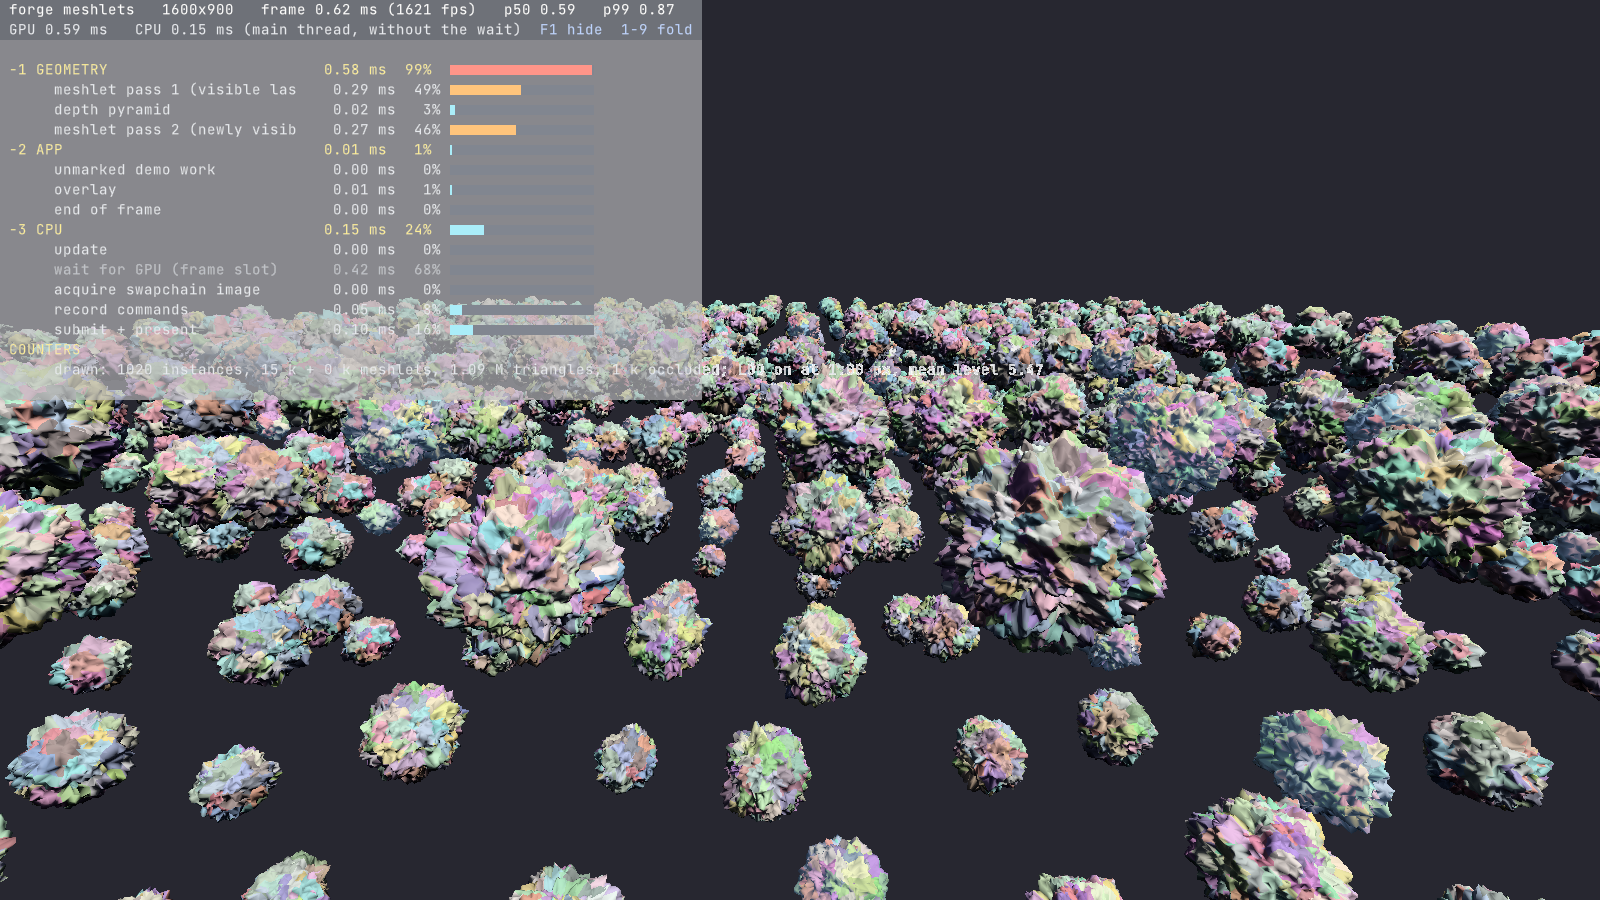
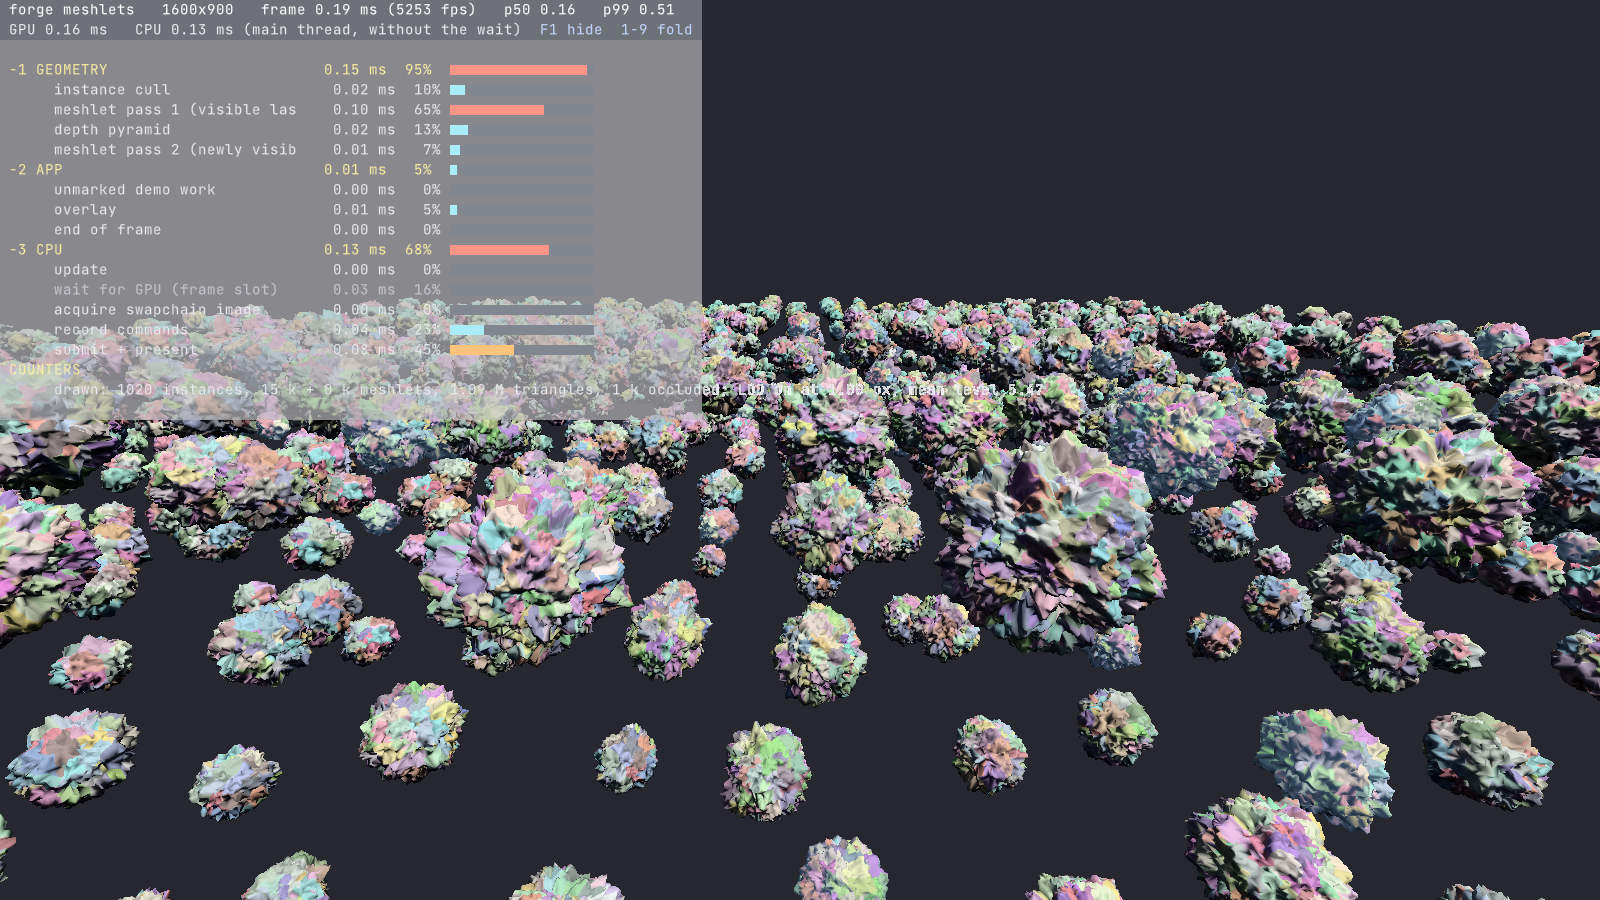
Instance cull pass: compute pre-pass builds the task work list, indirect mesh-task draws
One thread per instance frustum-culls it, evaluates the LOD level window per level and
appends only the task groups of the levels that can hold selected clusters to a per-frame
work list; the atomic counter is the x of the indirect VkDrawMeshTasksIndirectCommandEXT
that both meshlet passes now use. The launch-bound walk over 145 k groups per pass is gone:
ballad GPU 1.09 -> 0.34 ms (geometry passes 0.46 + 0.42 -> 0.06 + 0.02 ms, cull 0.02 ms),
bench 0.58 -> 0.15 ms. A/B harness at 0 pixels against the previous LOD image, brute
force and the window-off path; validation clean. PROFILE.md: the sky is now the largest
item of the frame.

Closes #4

diff --git a/crates/forge-render/src/meshlet.rs b/crates/forge-render/src/meshlet.rs
@@ -133,6 +133,8 @@ struct GpuFrame {
     group_table: u64,
     total_groups: u32,
     pad_end: u32,
+    work: u64,
+    indirect: u64,
 }
 
 #[repr(C)]
@@ -310,6 +312,26 @@ impl MeshletSceneBuilder {
                 usage,
                 "task group table",
             )?,
+            work: (0..FRAMES_IN_FLIGHT)
+                .map(|i| {
+                    device.create_buffer(BufferDesc {
+                        size: u64::from(self.group_table.len() as u32) * 8,
+                        usage,
+                        location: MemoryLocation::GpuOnly,
+                        name: &format!("task work list {i}"),
+                    })
+                })
+                .collect::<Result<Vec<_>>>()?,
+            indirect: (0..FRAMES_IN_FLIGHT)
+                .map(|i| {
+                    device.create_buffer(BufferDesc {
+                        size: 16,
+                        usage: usage | vk::BufferUsageFlags::INDIRECT_BUFFER,
+                        location: MemoryLocation::CpuToGpu,
+                        name: &format!("task indirect {i}"),
+                    })
+                })
+                .collect::<Result<Vec<_>>>()?,
             instance_count: self.instances.len() as u32,
             total_groups: self.group_table.len() as u32,
             total_bits: self.total_bits,
@@ -331,6 +353,10 @@ pub struct MeshletScene {
     instances: Buffer,
     visibility: Buffer,
     group_table: Buffer,
+    /// Per frame slot: the task-group work list built by the cull pass.
+    work: Vec<Buffer>,
+    /// Per frame slot: the indirect mesh-task command (x = work count).
+    indirect: Vec<Buffer>,
     /// Instances.
     pub instance_count: u32,
     /// Task groups per pass (every instance's clusters in groups of 32).
@@ -488,6 +514,7 @@ pub struct MeshletRenderer {
     pipeline_solid: Pipeline,
     pipeline_wire: Pipeline,
     pipeline_hzb: Pipeline,
+    pipeline_cull: Pipeline,
     depth: DepthResources,
     frame_buffers: Vec<Buffer>,
     stats_buffers: Vec<Buffer>,
@@ -545,6 +572,10 @@ impl MeshletRenderer {
             &shaders.compile("hzb.slang", "hzb_main", ShaderStage::Compute)?,
             "hzb",
         )?;
+        let cull = device.create_shader_module(
+            &shaders.compile("meshlet.slang", "cull_main", ShaderStage::Compute)?,
+            "instance cull",
+        )?;
         let make_pipeline = |wireframe: bool| {
             device.create_mesh_pipeline(&MeshPipelineDesc {
                 task: Some((task, "task_main")),
@@ -570,7 +601,12 @@ impl MeshletRenderer {
             push_constant_bytes: std::mem::size_of::<HzbPush>() as u32,
             name: "hzb build",
         })?;
-        for module in [task, mesh, frag, hzb] {
+        let pipeline_cull = device.create_compute_pipeline(&ComputePipelineDesc {
+            shader: (cull, "cull_main"),
+            push_constant_bytes: std::mem::size_of::<Push>() as u32,
+            name: "instance cull + LOD window",
+        })?;
+        for module in [task, mesh, frag, hzb, cull] {
             device.destroy_shader_module(module);
         }
         let depth = DepthResources::new(device, extent)?;
@@ -601,6 +637,7 @@ impl MeshletRenderer {
             pipeline_solid,
             pipeline_wire,
             pipeline_hzb,
+            pipeline_cull,
             depth,
             frame_buffers,
             stats_buffers,
@@ -674,6 +711,8 @@ impl MeshletRenderer {
             group_table: scene.group_table.address(),
             total_groups: scene.total_groups,
             pad_end: 0,
+            work: scene.work[slot.index].address(),
+            indirect: scene.indirect[slot.index].address(),
         }
     }
 
@@ -772,7 +811,6 @@ impl MeshletRenderer {
             &self.pipeline_solid
         };
         let frame_address = self.frame_buffers[slot.index].address();
-        let task_groups = params.scene.total_groups;
 
         // Visibility bits written by the previous frame must be visible to this frame's task shader.
         commands.memory_barrier(
@@ -781,6 +819,24 @@ impl MeshletRenderer {
             vk::PipelineStageFlags2::TASK_SHADER_EXT,
             vk::AccessFlags2::SHADER_STORAGE_READ,
         );
+        // Instance culling and LOD level windows in compute: the task-group work list and the
+        // indirect command of both passes (x = group count, reset here every frame).
+        params.scene.indirect[slot.index].write(0, &[0_u32, 1, 1, 0]);
+        commands.bind_pipeline(&self.pipeline_cull);
+        commands.push_constants(
+            &self.pipeline_cull,
+            &Push {
+                frame: frame_address,
+            },
+        );
+        commands.dispatch(params.scene.instance_count.div_ceil(64).max(1), 1, 1);
+        commands.memory_barrier(
+            vk::PipelineStageFlags2::COMPUTE_SHADER,
+            vk::AccessFlags2::SHADER_STORAGE_WRITE,
+            vk::PipelineStageFlags2::DRAW_INDIRECT | vk::PipelineStageFlags2::TASK_SHADER_EXT,
+            vk::AccessFlags2::INDIRECT_COMMAND_READ | vk::AccessFlags2::SHADER_STORAGE_READ,
+        );
+        commands.mark("geometry/instance cull");
         // The previous frame may have sampled the depth (pyramid build, TAA): wait for everything.
         commands.image_barriers(&[depth_barrier()
             .src_stage_mask(vk::PipelineStageFlags2::ALL_COMMANDS)
@@ -799,9 +855,7 @@ impl MeshletRenderer {
                 frame: frame_address,
             },
         );
-        if task_groups > 0 {
-            commands.draw_mesh_tasks(task_groups, 1, 1)?;
-        }
+        commands.draw_mesh_tasks_indirect(&params.scene.indirect[slot.index], 0)?;
         commands.end_rendering();
         commands.mark(if occlusion {
             "geometry/meshlet pass 1 (visible last frame)"
@@ -864,9 +918,7 @@ impl MeshletRenderer {
                     frame: frame_address + FRAME_BLOCK_STRIDE,
                 },
             );
-            if task_groups > 0 {
-                commands.draw_mesh_tasks(task_groups, 1, 1)?;
-            }
+            commands.draw_mesh_tasks_indirect(&params.scene.indirect[slot.index], 0)?;
             commands.end_rendering();
             commands.mark("geometry/meshlet pass 2 (newly visible)");
         }

diff --git a/crates/forge-gpu/src/commands.rs b/crates/forge-gpu/src/commands.rs
@@ -257,4 +257,17 @@ impl<'a> Commands<'a> {
         unsafe { loader.cmd_draw_mesh_tasks(self.cb, x, y, z) };
         Ok(())
     }
+
+    /// `vkCmdDrawMeshTasksIndirectEXT` with one `VkDrawMeshTasksIndirectCommandEXT` (three
+    /// `u32`: x, y, z) at `offset` in `buffer`, which must have `INDIRECT_BUFFER` usage.
+    pub fn draw_mesh_tasks_indirect(&self, buffer: &crate::Buffer, offset: u64) -> Result<()> {
+        let loader = self
+            .device
+            .mesh_loader()
+            .ok_or_else(|| GpuError::Unsupported("mesh shaders".into()))?;
+        // SAFETY: a mesh pipeline is bound inside a rendering instance and the buffer holds a
+        // complete indirect command at `offset` (the caller's responsibility).
+        unsafe { loader.cmd_draw_mesh_tasks_indirect(self.cb, buffer.raw(), offset, 1, 12) };
+        Ok(())
+    }
 }

diff --git a/docs/PROFILE.md b/docs/PROFILE.md
@@ -14,37 +14,39 @@ in Tracy's GPU timeline next to the CPU zones.
 
 Machine: RTX 5070 Ti, driver 617.14, 1600×900, 2026-09-24.
 
-## `asteroids` — the ballad, after the cluster LOD DAG (frame 600, LOD 1 px, TAA on)
+## `asteroids` — the ballad, cluster LOD DAG + instance cull pass (frame 600, LOD 1 px, TAA on)
 
-Frame **1.12 ms** (893 fps), p50 1.09, p99 1.40. GPU zones sum to 1.10 ms; CPU main thread
-0.18 ms of work, the rest blocked on the GPU.
+Frame **0.35 ms** (2 829 fps), p50 0.34, p99 0.60. GPU zones sum to 0.34 ms; CPU main
+thread 0.16 ms of work (record 0.07, submit + present 0.10), now comparable to the GPU.
 
 | Subject | Zone | ms | share of GPU | Verdict |
 |---|---|---|---|---|
-| geometry | meshlet pass 1 (visible last frame) | 0.46 | 41 % | 8 k clusters, 0.62 M triangles drawn; the time is now the task-shader walk over 145 k groups of 32 cluster slots (4.6 M slots over 2 458 visible instances), most exiting on the per-level window. Next: a cluster hierarchy or fatter task groups so far instances cost a handful of groups, not hundreds (issue #4). |
-| geometry | meshlet pass 2 (newly visible) | 0.42 | 38 % | The same walk again to find what became visible; with the DAG it draws almost nothing (0 k) and is pure traversal. Same fix as pass 1; or test only clusters that pass 1 skipped. |
-| geometry | depth pyramid | 0.02 | 2 % | Negligible; stays. |
-| sky | starfield + planet | 0.14 | 12 % | Unchanged in absolute terms, now the second item. Full-screen procedural noise; when the atmosphere arrives, render the far sky at lower resolution or into a cached cube. |
-| temporal | TAA (motion + resolve + blit) | 0.06 | 6 % | Cheap. DLSS replaces it on NVIDIA. |
-| app | overlay | 0.01 | 1 % | The profiler itself. |
-| cpu | wait for GPU (frame slot) | 0.91 | — | Still GPU-bound, at 900 fps. The main thread does 0.18 ms of work per frame. |
-| cpu | record / submit + present | 0.07 / 0.11 | — | Driver cost; a render thread hides it later. |
+| sky | starfield + planet | 0.13 | 39 % | **Now the largest item.** Full-screen procedural noise (three value-noise octaves, two star lattices of 27 cells, the planet) at every pixel every frame. Render the far sky into a cube map refreshed over several frames, or at half resolution with TAA; the atmosphere (issue #8) will replace this shader anyway. |
+| geometry | meshlet pass 1 (visible last frame) | 0.06 | 18 % | 6–8 k clusters, 0.5 M triangles: real work at last, and small. |
+| geometry | instance cull | 0.02 | 7 % | One thread per instance: frustum, per-level LOD window, work-list append. Replaces the launch-bound task-shader walk (0.45 ms per pass). |
+| geometry | depth pyramid | 0.02 | 6 % | Negligible; stays. |
+| geometry | meshlet pass 2 (newly visible) | 0.02 | 6 % | Almost nothing becomes newly visible per frame at 1 px. |
+| temporal | TAA (motion + resolve + blit) | 0.07 | 20 % | Second largest now. Resolve straight into the swapchain once the render graph exists (saves the blit); DLSS replaces it on NVIDIA. |
+| app | overlay | 0.01 | 3 % | The profiler itself. |
+| cpu | record / submit + present | 0.07 / 0.10 | — | At 2 800 fps the driver's submit and present are a third of the frame; a render thread and fewer, larger submissions fix that when it matters. |
+| cpu | wait for GPU (frame slot) | 0.16 | — | Still GPU-bound, barely. |
 
 Counters: 3000 asteroids, 195 M leaf triangles, 28 k clusters in the DAG tables, 4.6 M
-cluster slots; drawn 2 458 instances, 8 k meshlets, 0.62 M triangles, mean LOD level 6.3.
+cluster slots; drawn 2 458 instances, 8 k meshlets, 0.63 M triangles, mean LOD level 6.3.
 
-**Before the DAG (same frame, full detail):** GPU 5.5 ms, of which pass 1 4.6 ms and pass 2
-1.2 ms for 78 M sub-pixel triangles. The LOD removed 99.2 % of the triangles and 80 % of the
-frame; the sub-pixel problem (54 triangles per pixel) is gone.
+**The road here (same frame):** full detail 5.5 ms → DAG with the old dispatch 4.1 ms →
+exact task tables 1.09 ms → instance cull pass 0.34 ms. The geometry passes went from 5.8 ms
+to 0.13 ms, and the rendering is pixel-identical to brute force at every step of the A/B
+harness.
 
-**Priority list from these numbers:** (1) the task-shader walk (issue #4: cluster hierarchy /
-fatter groups; both passes are launch-bound at ~145 k groups), (2) the sky at 12 %, (3) the
-software rasteriser for the smallest clusters (issue #3) matters again only once the walk is
-cheap, (4) then lighting and the CPU simulation become the numbers to watch.
+**Priority list from these numbers:** (1) the sky at 39 % (cache it, or wait for the
+atmosphere pass and design that one cheap from the start), (2) TAA → DLSS and no blit,
+(3) the CPU submit/present path only when a real scene makes it visible, (4) geometry is
+done until triangle counts rise again (streaming and the software rasteriser then).
 
 ## `meshlets` — the culling bench (static view, occlusion on, LOD 1 px)
 
-Frame **0.6 ms**, GPU 0.58 ms: 15 k meshlets, 1.09 M triangles (full detail: 325 k
+Frame **0.16 ms**, GPU 0.15 ms: 15 k meshlets, 1.09 M triangles (full detail: 325 k
 meshlets, 30 M triangles, 2.18 ms; without occlusion at full detail: 106 M at 6.30 ms).
 
 ## Not measured yet

diff --git a/docs/demos/asteroids.md b/docs/demos/asteroids.md
@@ -72,15 +72,15 @@ subject, F1 cycles off → compact → full. The verdicts behind the numbers are
 | | value |
 |---|---|
 | scene | 3000 asteroids, 7 meshes, 195 M leaf triangles; DAG tables 28 k clusters, 4.6 M cluster slots over all instances |
-| drawn per frame, LOD 1 px (moving, default path) | 8 k meshlets, **0.62 M triangles**, mean LOD level 6.3 |
-| GPU per frame, LOD 1 px | **1.09 ms** (sky 0.14 + meshlet pass 1 0.46 + pyramid 0.02 + pass 2 0.42 + TAA 0.06) |
-| GPU per frame, LOD 0.5 px / 2 px | 1.13 ms (1.68 M triangles) / 1.11 ms (0.30 M) |
-| GPU per frame, full detail (`--no-lod`) | 5.50 ms (862 k + 33 k meshlets, 83 M triangles) |
-| CPU per frame (main thread) | 0.18 ms |
-| frame time, uncapped, LOD 1 px | p50 1.07 ms, p99 1.36 ms (~930 fps) |
+| drawn per frame, LOD 1 px (moving, default path) | 6–8 k meshlets, **0.5–0.6 M triangles**, mean LOD level 6.3 |
+| GPU per frame, LOD 1 px | **0.34 ms** (sky 0.13 + instance cull 0.02 + meshlet pass 1 0.06 + pyramid 0.02 + pass 2 0.02 + TAA 0.07) |
+| GPU per frame, LOD 0.5 px / 2 px | 0.39 ms (1.24 M triangles) / 0.28 ms (0.30 M) |
+| GPU per frame, full detail (`--no-lod`) | 5.15 ms (852 k + 33 k meshlets, 82 M triangles) |
+| CPU per frame (main thread) | 0.16 ms |
+| frame time, uncapped, LOD 1 px | p50 0.34 ms, p99 0.60 ms (~2 800 fps) |
 | field build (7 DAGs on 6 workers + scatter + upload) | ~2.5 s |
 
-The `meshlets` bench (1152 rocks, 127 M triangles) goes the same way: 2.18 ms → **0.58 ms**
+The `meshlets` bench (1152 rocks, 127 M triangles) goes the same way: 2.18 ms → **0.15 ms**
 at 1 px (15 k meshlets, 1.1 M triangles).
 
 Earlier configurations for reference: 6000 rocks in a 60–160 m tube drew 50 M triangles at
@@ -125,6 +125,16 @@ remembering: reading a 368-byte `Mesh` record by value in every task thread, and
 instruction) because a wrapped line hid the old formula from a replacement. The profiler
 showed both passes at exactly 1.94 ms whatever was drawn, which is the signature of launch
 overhead, not work.
+
+**The instance cull pass (issue #4).** With exact tables the two passes still launched
+145 k task groups each and cost 0.45 ms apiece, launch-bound. A compute pass with one thread
+per instance now frustum-culls the instance, evaluates the per-level window once per level
+and appends only the task groups of the levels that can hold selected clusters to a work
+list; both meshlet passes are indirect mesh-task draws over that list. The work list holds a
+few thousand groups instead of 145 k, and the passes went from 0.46 + 0.42 ms to
+0.06 + 0.02 ms (the cull pass itself: 0.02 ms). Same A/B results: 0 pixels against the
+previous LOD image, against brute force, and with the window off. The sky is now the largest
+item of the frame.
 
 ## The culling A/B check, and the two bugs it found (2026-09-24)
 
@@ -177,9 +187,8 @@ replaced by DLSS on NVIDIA).
 
 - Before the DAG almost every drawn triangle was smaller than a pixel (54 per pixel): a
   442 k-triangle rock 300 m away covers a few hundred pixels. The DAG draws that rock with a
-  few clusters of its coarse levels; the geometry passes went from 5.8 ms to 0.9 ms and what
-  is left in them is the task-shader walk over the cluster slots, not rasterisation (the
-  cluster hierarchy is the next step).
+  few clusters of its coarse levels, and the instance cull pass hands the task shader only
+  the groups that can matter: the geometry passes went from 5.8 ms to 0.13 ms.
 - With a static camera and TAA on, consecutive frames differed in ~1.4 % of the pixels by up
   to 41 levels at full detail: the temporal filter cannot settle on geometry that changes
   every jitter. With the DAG the far field is a few triangles per pixel, which the filter can
@@ -196,9 +205,9 @@ into the big asteroids, ships in pursuit, lasers, missiles, rocks breaking by ma
 
 ## Next for the ballad
 
-1. Software rasteriser for the sub-pixel clusters and a cluster hierarchy in the task
-   shader (fewer, fatter task groups; the two passes are launch-bound at 145 k groups each);
-   streaming of cluster pages. Cluster LOD DAG: done (above).
+1. Cluster LOD DAG and the instance cull pass: done (above). Next in geometry: streaming of
+   cluster pages, the software rasteriser for the smallest clusters once triangle counts
+   rise again (a million-triangle city, not a rock field), the visibility buffer.
 2. HDR exposure and tonemapping, DLSS; a proper sun with ray-traced shadows on the RTX
    tiers; volumetric dust and the nebula lit by the sun.
 3. Physics (Phase 3): tumbling, collisions, fracture by mass; then ships, lasers, missiles,

diff --git a/docs/ROADMAP.md b/docs/ROADMAP.md
@@ -39,9 +39,10 @@ It always shows the best the engine can do at that moment and carries its own pr
   instances of seven procedural meshes, a spline camera path, Tracy hooks. Culling is
   verified pixel-exact against brute force by the A/B harness (`--no-occlusion`,
   `--no-cone`, `--show-culled`, `imgdiff`), which found and closed two silent culling bugs.
-- Phase 1: cluster LOD DAG ✅ (2026-09-24: 78 M → 0.62 M triangles, GPU 5.5 → 1.09 ms,
-  pixel-exact A/B), profiler overlay ✅; next the cluster hierarchy, the software rasteriser,
-  streaming of cluster pages, visibility buffer, HDR exposure and tonemapping, DLSS.
+- Phase 1: cluster LOD DAG ✅ and instance cull pass ✅ (2026-09-24: 78 M → 0.6 M
+  triangles, GPU 5.5 → 0.34 ms, pixel-exact A/B), profiler overlay ✅; next the render
+  graph, a cheaper sky, streaming of cluster pages, the software rasteriser when triangle
+  counts rise again, visibility buffer, HDR exposure and tonemapping, DLSS.
 - Phase 3: physics — asteroids tumble and collide; **collisions and laser or missile damage
   break them according to their mass** (Voronoi fracture into debris, support graphs for the
   big ones), with proper impulses on every piece.

diff --git a/docs/research/gpu-geometry.md b/docs/research/gpu-geometry.md
@@ -344,3 +344,12 @@ instance's distance and exit before reading a cluster. Ballad: 78 M → 0.62 M t
 5.5 → 1.09 ms; bench 2.18 → 0.58 ms; every A/B (occlusion vs brute force, window on vs off,
 LOD off vs the pre-DAG image) at 0 pixels. What remains in the geometry passes is the
 task-shader walk itself (145 k groups per pass), which is the cluster-hierarchy work.
+
+**Instance cull pass (issue #4, same day).** With exact tables the two meshlet passes were
+still launch-bound: 145 k task groups each, 0.45 ms apiece whatever was drawn. A compute pass
+with one thread per instance (frustum test, the per-level LOD window evaluated once per
+level, task groups of the possible levels appended to a work list through an atomic counter
+that is also the `x` of the indirect mesh-task command) leaves a few thousand groups per
+pass; both passes draw `vkCmdDrawMeshTasksIndirectEXT` over that list. Geometry passes:
+0.46 + 0.42 ms → 0.06 + 0.02 ms, cull pass 0.02 ms; ballad frame 0.34 ms at 1 px. This is
+the GPU-driven shape the fallback path (compute culling + indirect count draws) will share.

diff --git a/docs/demos/meshlets.md b/docs/demos/meshlets.md
@@ -10,9 +10,10 @@ culling (move the camera to see what was culled), **C** cone culling, **V** frus
 the swapchain without anti-aliasing on purpose: it measures culling, not looks; the
 `asteroids` demo is where TAA and the sky live.
 
-With the cluster LOD DAG (2026-09-24, see [asteroids.md](asteroids.md)) the static view
-draws 15 k meshlets and 1.09 M triangles in **0.58 ms** at a 1 px threshold; the numbers
-below are the full-detail (`--no-lod`) figures that measure culling alone.
+With the cluster LOD DAG and the instance cull pass (2026-09-24, see
+[asteroids.md](asteroids.md)) the static view draws 15 k meshlets and 1.09 M triangles in
+**0.15 ms** at a 1 px threshold; the numbers below are the full-detail (`--no-lod`) figures
+that measure culling alone.
 Machine: RTX 5070 Ti, driver 617.14, Vulkan 1.4, Slang 2026.13, 1600×900, 2026-09-24.
 Research behind it: [research/gpu-geometry.md](../research/gpu-geometry.md).
 
